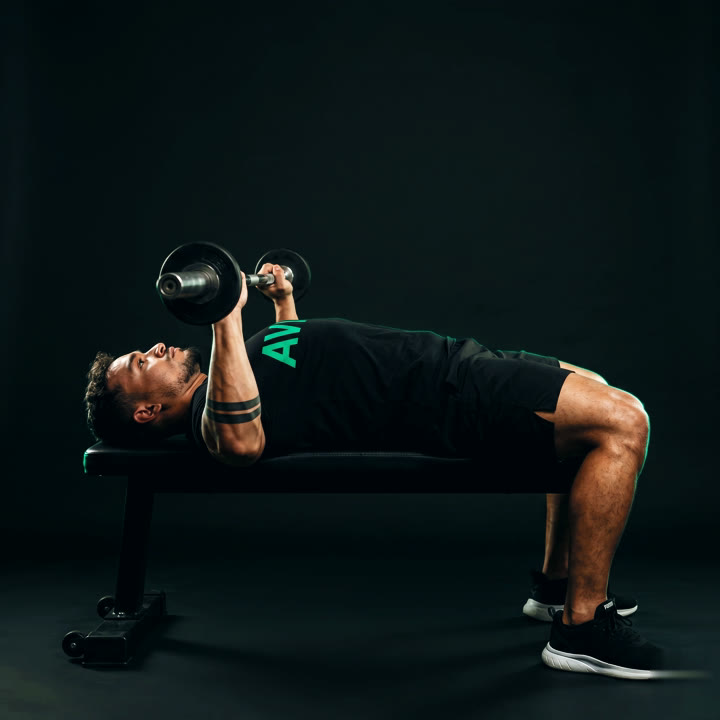
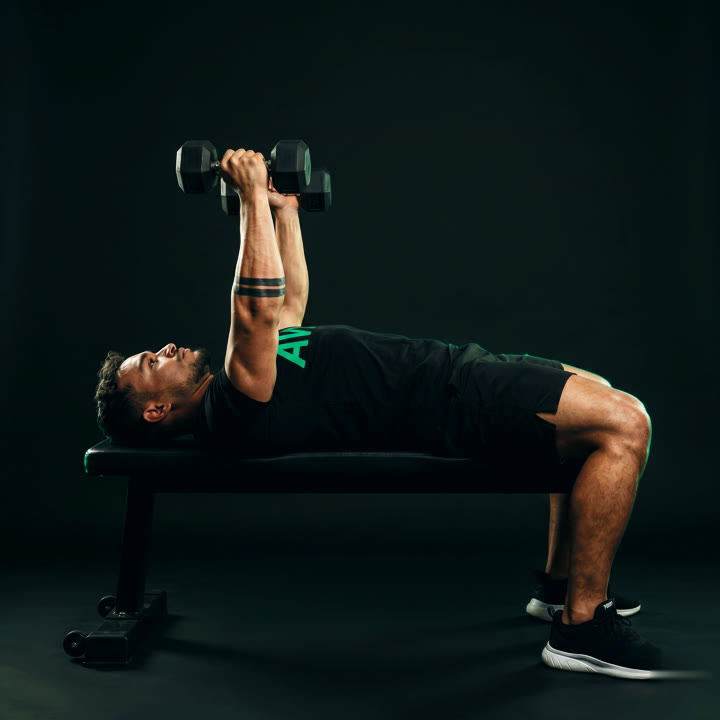
fix(detalle): nombre legible en modo claro + e71 con mancuernas inequívocas
- En el detalle de ejercicio con foto, el título usaba var(--t1) (oscuro en modo claro)
  sobre la foto oscura -> ilegible. Ahora el título va blanco fijo + scrim oscuro (legible
  en claro Y oscuro, ya que la foto siempre es oscura).
- e71 (Press de Banca con Mancuernas) mostraba las mancuernas juntas y parecía barra;
  reemplazada por la variante con las dos mancuernas hexagonales separadas (inequívoco).
- bump SW apex-v78 -> apex-v79

diff --git a/index.html b/index.html
@@ -548,9 +548,9 @@ html[data-theme="light"] .mta {
 .exdetail-hero.has-photo{display:block;gap:0;padding:0;position:relative}
 .exdetail-hero.has-photo .exdetail-bigicon{width:100%;height:auto;aspect-ratio:16/11;border-radius:0!important;border:none!important;background:#000!important;overflow:hidden}
 .exdetail-hero.has-photo .exdetail-bigicon img{width:100%;height:100%;object-fit:cover;border-radius:0;cursor:zoom-in}
-.exdetail-hero.has-photo::after{content:"";position:absolute;inset:0;background:linear-gradient(0deg,var(--w),rgba(2,10,7,.30) 38%,transparent 66%);pointer-events:none}
+.exdetail-hero.has-photo::after{content:"";position:absolute;inset:0;background:linear-gradient(0deg,rgba(2,10,7,.92),rgba(2,10,7,.32) 45%,transparent 72%);pointer-events:none}
 .exdetail-hero.has-photo .exdetail-herocap{position:absolute;left:18px;right:18px;bottom:13px;z-index:2}
-.exdetail-hero.has-photo .exdetail-title{font-size:22px;text-shadow:0 2px 14px rgba(0,0,0,.75)}
+.exdetail-hero.has-photo .exdetail-title{font-size:22px;color:#fff!important;text-shadow:0 2px 14px rgba(0,0,0,.85)}
 /* Loading overlay */
 #apex-loading{position:fixed;inset:0;background:linear-gradient(180deg,rgba(7,38,29,.50) 0%,rgba(6,9,10,.74) 52%,rgba(6,9,10,.95) 100%),url('media/loading-bg.jpg') center/cover no-repeat #06090A;display:flex;flex-direction:column;align-items:center;justify-content:center;z-index:9999;transition:opacity .4s}
 #apex-loading.fade{opacity:0;pointer-events:none}

diff --git a/sw.js b/sw.js
@@ -1,4 +1,4 @@
-const CACHE_NAME = 'apex-v78';
+const CACHE_NAME = 'apex-v79';
 
 self.addEventListener('install', e => { self.skipWaiting(); });
 
